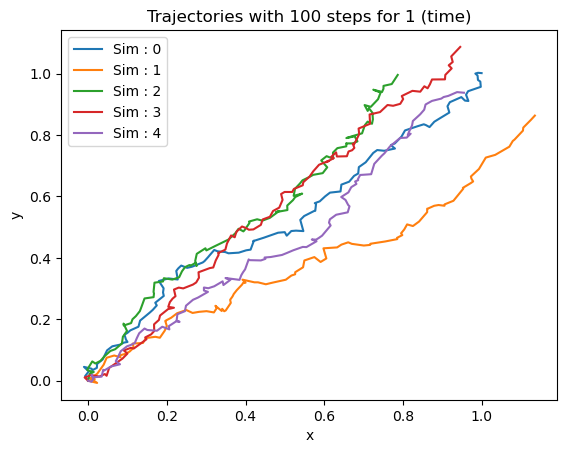
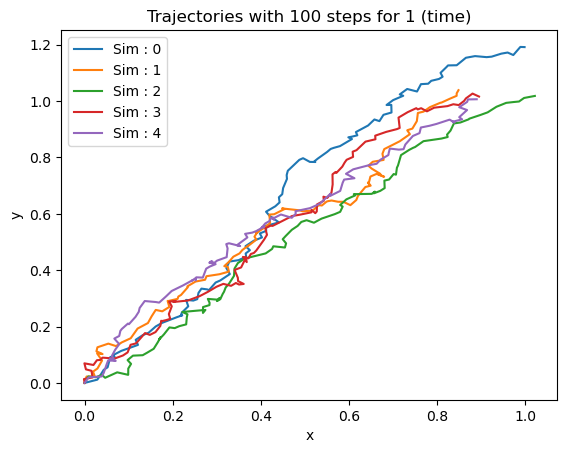
generate line and solver function

diff --git a/generate_path.py b/generate_path.py
@@ -1,0 +1,20 @@
+import numpy as np
+import matplotlib.pyplot as plt
+def simple_line(x_0,x_target,nb_points):
+    t = np.linspace(0,1,nb_points)
+    return x_0 * t[:,None] +(1-t)[:,None]*x_target
+
+def plot_path(x_0,x_target,nb_points,type='line'):
+    if type=='line':
+        path = simple_line(x_0,x_target,nb_points)
+    plt.plot(path[:,0],path[:,1],label='path')
+    plt.xlabel("x")
+    plt.ylabel("y")
+    plt.title(f"Path : {type}")
+    plt.savefig(f"path_{type}.png",dpi=100,bbox_inches='tight')
+
+if __name__  == '__main__' : 
+    x_0 = np.zeros(2)
+    x_target  =2*np.ones(2)
+    nb_points = 200
+    plot_path(x_0,x_target,nb_points)

diff --git a/sde.py b/sde.py
@@ -4,6 +4,10 @@ import matplotlib.pyplot as plt
 def dW(delta_t):
     return np.random.normal(loc=0.0, scale=np.sqrt(delta_t),size=(2))
 
+def solver(x,U,p,Dt,D):
+    dW_t =  dW(Dt)
+    return x + U*p*Dt+ D*dW_t
+
 def run_sde(nb_steps,t_init,t_end,U=1,p = np.ones(2),x_0 = np.zeros(2)):
     D=0.1
 
@@ -13,9 +17,7 @@ def run_sde(nb_steps,t_init,t_end,U=1,p = np.ones(2),x_0 = np.zeros(2)):
     traj[0] = x_0
 
     for n in range(nb_steps-1) : 
-        dW_t =  dW(Dt)
-        traj[n+1] = traj[n] + U*p*Dt + D * dW_t
-
+        traj[n+1] = solver(traj[n],U,p,Dt,D)
     return traj
     
 def plot_simulation(num_sims,nb_steps,t_init,t_end):
